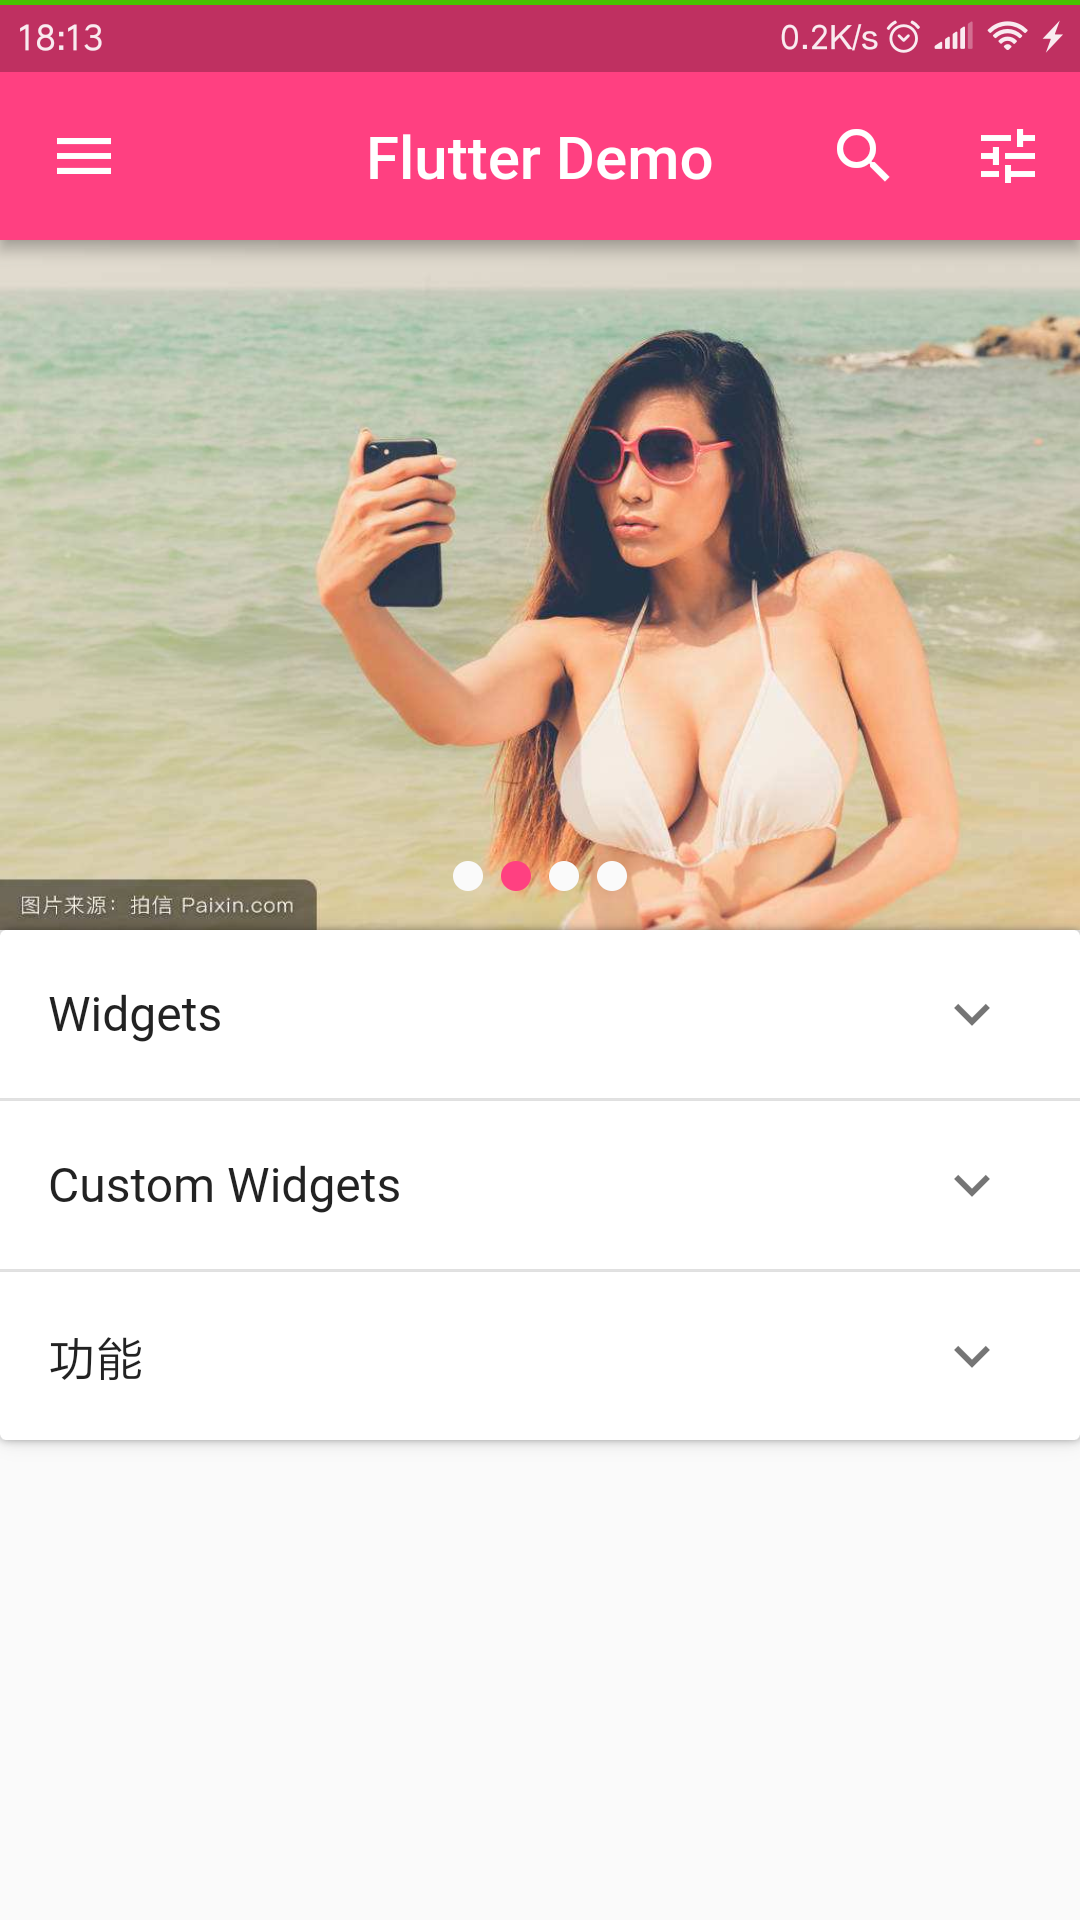
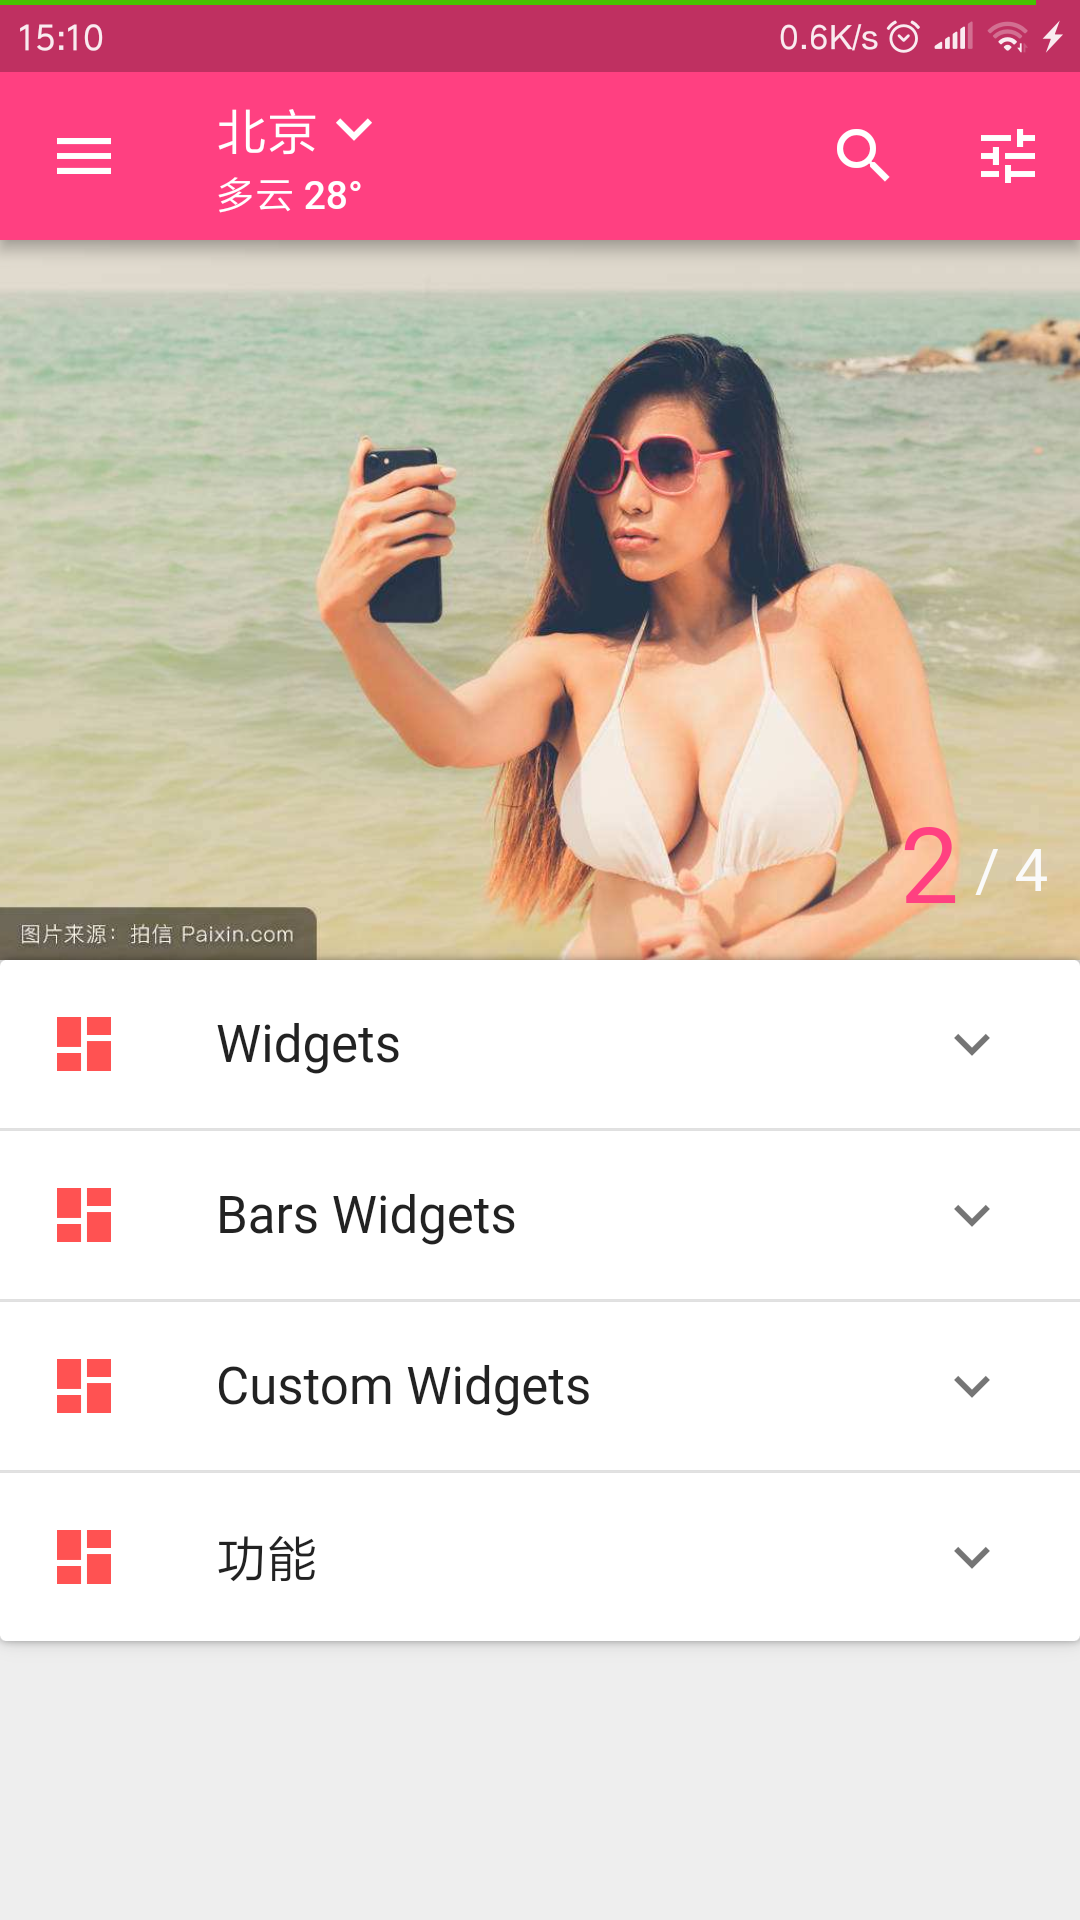
首页添加天气数据及位置（未实现定位）

diff --git a/lib/home_page.dart b/lib/home_page.dart
@@ -1,5 +1,7 @@
 import 'package:flutter/cupertino.dart';
 import 'package:flutter/material.dart';
+import 'package:flutter_app/bean/he_weather.dart';
+import 'package:flutter_app/service/api_service.dart';
 import 'package:flutter_app/ui/home_drawable.dart';
 import 'package:flutter_app/ui/image_load_view.dart';
 import 'package:flutter_app/utils/toast.dart';
@@ -7,6 +9,7 @@ import 'package:flutter_app/global/data.dart';
 import 'package:flutter_app/utils/log_util.dart';
 import 'package:flutter_app/utils/route_util.dart';
 import 'package:flutter_app/utils/utils.dart';
+import 'package:flutter_app/weather/page/city_page.dart';
 import 'package:flutter_swiper/flutter_swiper.dart';
 import 'dart:async';
 
@@ -21,6 +24,17 @@ class HomeStatePage extends State<HomePage> {
   /// 上次点击时间
   DateTime _lastPressedAt;
 
+  HeWeather weather;
+  String city;
+
+  @override
+  void initState() {
+    super.initState();
+    city = '北京';
+    // 获取当前位置的天气数据
+    getWeatherData(city);
+  }
+
   @override
   Widget build(BuildContext context) {
     /**
@@ -34,11 +48,26 @@ class HomeStatePage extends State<HomePage> {
         key: _scaffoldKey,
         appBar: AppBar(
           // Title
-          title: Text("Flutter Demo"),
+          title: GestureDetector(
+            onTap: () => pushNewPage(context, CityPage(currentCity: city)),
+            child: Column(
+                children: <Widget>[
+                  Row(
+                    children: <Widget>[
+                      Text(city, style: TextStyle(fontSize: 17.0)),
+                      Icon(Icons.keyboard_arrow_down)
+                    ],
+                    mainAxisSize: MainAxisSize.min,
+                  ),
+                  Text('${weather?.now?.cond_txt} ${weather?.now?.tmp}',
+                      style: TextStyle(fontSize: 13.0))
+                ],
+                crossAxisAlignment: CrossAxisAlignment.start,
+                mainAxisAlignment: MainAxisAlignment.center),
+          ),
           // Set the background color of the App Bar
           backgroundColor: Colors.pinkAccent,
           elevation: 4.0,
-          centerTitle: true,
           leading: IconButton(
               icon: Icon(Icons.menu),
               onPressed: () => _scaffoldKey.currentState.openDrawer()),
@@ -120,6 +149,11 @@ class HomeStatePage extends State<HomePage> {
       return false;
     }
     return true;
+  }
+
+  void getWeatherData(String city) async {
+    weather = await ApiService.getHeWeatherNow(city);
+    setState(() {});
   }
 
   void getTestData() async {}

diff --git a/lib/weather/page/city_page.dart b/lib/weather/page/city_page.dart
@@ -9,6 +9,10 @@ import 'package:flutter_app/weather/page/weather_page.dart';
 import 'package:rounded_letter/rounded_letter.dart';
 
 class CityPage extends StatefulWidget {
+  final String currentCity;
+
+  CityPage({Key key, this.currentCity}) : super(key: key);
+
   @override
   createState() => CityPageState();
 }
@@ -38,11 +42,12 @@ class CityPageState extends State<CityPage> {
     return Column(children: <Widget>[
       GestureDetector(
           behavior: HitTestBehavior.translucent,
-          onTap: () => pushNewPage(context, WeatherPage('北京')),
+          onTap: () => pushNewPage(
+              context, WeatherPage('${widget.currentCity ?? '北京'}')),
           child: Container(
               alignment: Alignment.centerLeft,
               padding: const EdgeInsets.all(15.0),
-              child: Text("当前城市: 北京"))),
+              child: Text("当前城市: ${widget.currentCity ?? '北京'}"))),
       Expanded(
           child: AzListView(
               data: _cityList,

diff --git a/lib/weather/ui/now_view.dart b/lib/weather/ui/now_view.dart
@@ -24,8 +24,7 @@ class NowView extends StatelessWidget {
         SizedBox(height: 10.0),
         Text(now.cond_txt,
             style: TextStyle(color: Colors.white, fontSize: 17.0)),
-        RaisedButton(
-            elevation: 0,
+        FlatButton(
             color: Color(0x2a000000),
             onPressed: () {},
             child: Row(
@@ -73,7 +72,8 @@ class NowView extends StatelessWidget {
             child: Row(children: <Widget>[
               Icon(CustomIcon.pcpn, color: Colors.white, size: 20.0),
               SizedBox(width: 5.0),
-              Text('  降雨量：${now.pcpn} mm', style: TextStyle(color: Colors.white))
+              Text('  降雨量：${now.pcpn} mm',
+                  style: TextStyle(color: Colors.white))
             ]),
           ),
           Expanded(
